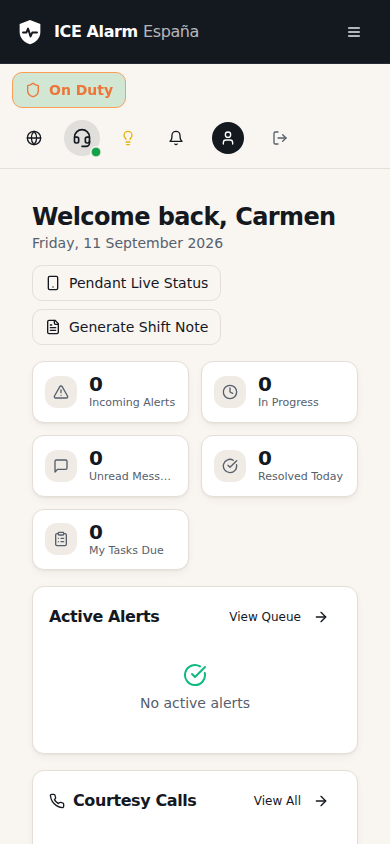
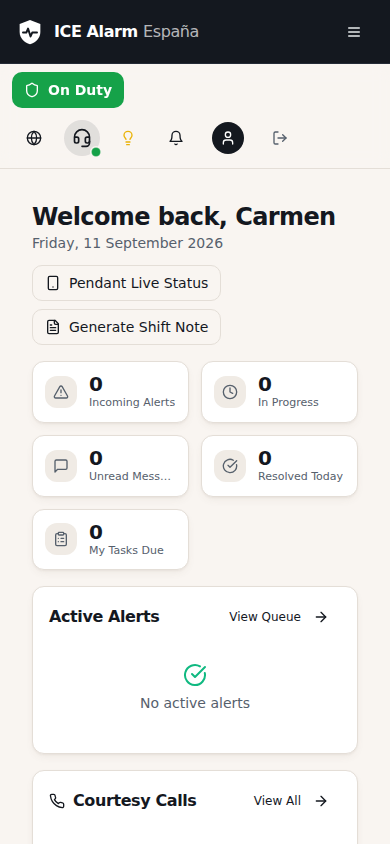
fix(call-centre): my own new test found a third instance, in CI, that local fonts hid
The spec added in this PR went red on CI's `Audit public pages` — on the
Dashboard, 39px over at 390 and 54 at 360 — while passing on every local run,
including at 330px. That gap is the point: the runner's default font is wider
than this container's, so the same string crosses the viewport there and not
here. A width test tuned to one machine's fonts lies on every other machine.

THE CAUSE IS THE SAME DEFECT AGAIN, in a third place. `DeviceOfflineAlertsCard`
and `DeviceIssuesQueue` both have a `CardDescription className="truncate"`
inside a flex child with no `min-w-0`. A flex child defaults to
`min-width: auto`, so the div's base size is the description's full nowrap
width — the truncation has nothing to truncate TO, because the parent has
already sized itself to the whole string. `truncate` was doing nothing at all,
which is a bug in its own right regardless of the page width.

THE NEW TEST IS FONT-INDEPENDENT, deliberately. Rather than add a third width
and hope, it stretches the descriptions to an absurd length at runtime and
asserts the page still fits. Verified: it fails without the fix, naming the
exact element chain CI named (`<div class="">` / the CardTitle h3 / the
truncating p, right=1137), and passes with it. If `min-w-0` is ever removed it
now fails on EVERY machine rather than only on the runner.

NO EXPLANATORY COMMENT IN THESE TWO FILES, and that is not an oversight.
Adding one changed the WIRING REGISTER's derived output — 662 call sites to
[…]

Changed region(s): [[0.0308, 0.0616, 0.3385, 0.154]]

diff --git a/e2e/callCentreShellWidth.spec.ts b/e2e/callCentreShellWidth.spec.ts
@@ -126,3 +126,39 @@ for (const width of WIDTHS) {
     expect(failures, `pages scrolling sideways at ${width}px`).toEqual([]);
   });
 }
+
+/**
+ * THE FONT-INDEPENDENT HALF, and the reason this test exists at all.
+ *
+ * The page-width tests above passed on this machine and failed in CI by 39px, on the Dashboard,
+ * because the runner's default font is wider than the container's. The cause was a `truncate`
+ * on a CardDescription inside a flex child with no `min-w-0`: a flex child defaults to
+ * `min-width: auto`, so its base size is the full nowrap width of the string and the truncation
+ * has nothing to truncate to. The parent had already sized itself to the whole text.
+ *
+ * A width test tuned to a font is a width test that lies on somebody else's machine. This asks
+ * the invariant directly instead: make the string absurdly long, and the card must still fit.
+ * If `min-w-0` is ever removed, this fails on EVERY machine rather than only on the runner.
+ */
+test("a long card description truncates instead of widening the page", async ({ page }) => {
+  await page.setViewportSize({ width: 390, height: 844 });
+  await signIn(page);
+  await page.goto("/call-centre");
+  await expect(page.getByTestId("duty-toggle")).toBeVisible();
+
+  const stretched = await page.evaluate(() => {
+    const descriptions = [...document.querySelectorAll<HTMLElement>("p.truncate")];
+    if (!descriptions.length) return 0;
+    for (const d of descriptions) {
+      d.textContent =
+        "EV-07B devices that have gone offline and need somebody to look at them today " +
+        "before anything else happens on this shift at all";
+    }
+    return descriptions.length;
+  });
+  expect(stretched, "no truncating card description found to stretch").toBeGreaterThan(0);
+
+  const { excess, worst } = await overflowReport(page);
+  expect(excess, `a stretched description widened the page — ${worst.join(" | ")}`)
+    .toBeLessThanOrEqual(1);
+});

diff --git a/src/components/call-centre/DeviceOfflineAlertsCard.tsx b/src/components/call-centre/DeviceOfflineAlertsCard.tsx
@@ -155,8 +155,8 @@ export function DeviceOfflineAlertsCard() {
       hasAlerts && "border-destructive/50"
     )}>
       <CardHeader className="pb-3">
-        <div className="flex items-center justify-between">
-          <div>
+        <div className="flex flex-wrap items-center justify-between gap-2">
+          <div className="min-w-0 flex-1">
             <CardTitle className="flex items-center gap-2">
               <WifiOff className={cn(
                 "h-5 w-5",

diff --git a/src/components/call-centre/DeviceIssuesQueue.tsx b/src/components/call-centre/DeviceIssuesQueue.tsx
@@ -135,8 +135,8 @@ export function DeviceIssuesQueue() {
       hasIssues && "border-orange-500/50"
     )}>
       <CardHeader className="pb-3">
-        <div className="flex items-center justify-between">
-          <div>
+        <div className="flex flex-wrap items-center justify-between gap-2">
+          <div className="min-w-0 flex-1">
             <CardTitle className="flex items-center gap-2">
               <Wrench className={cn(
                 "h-5 w-5",
